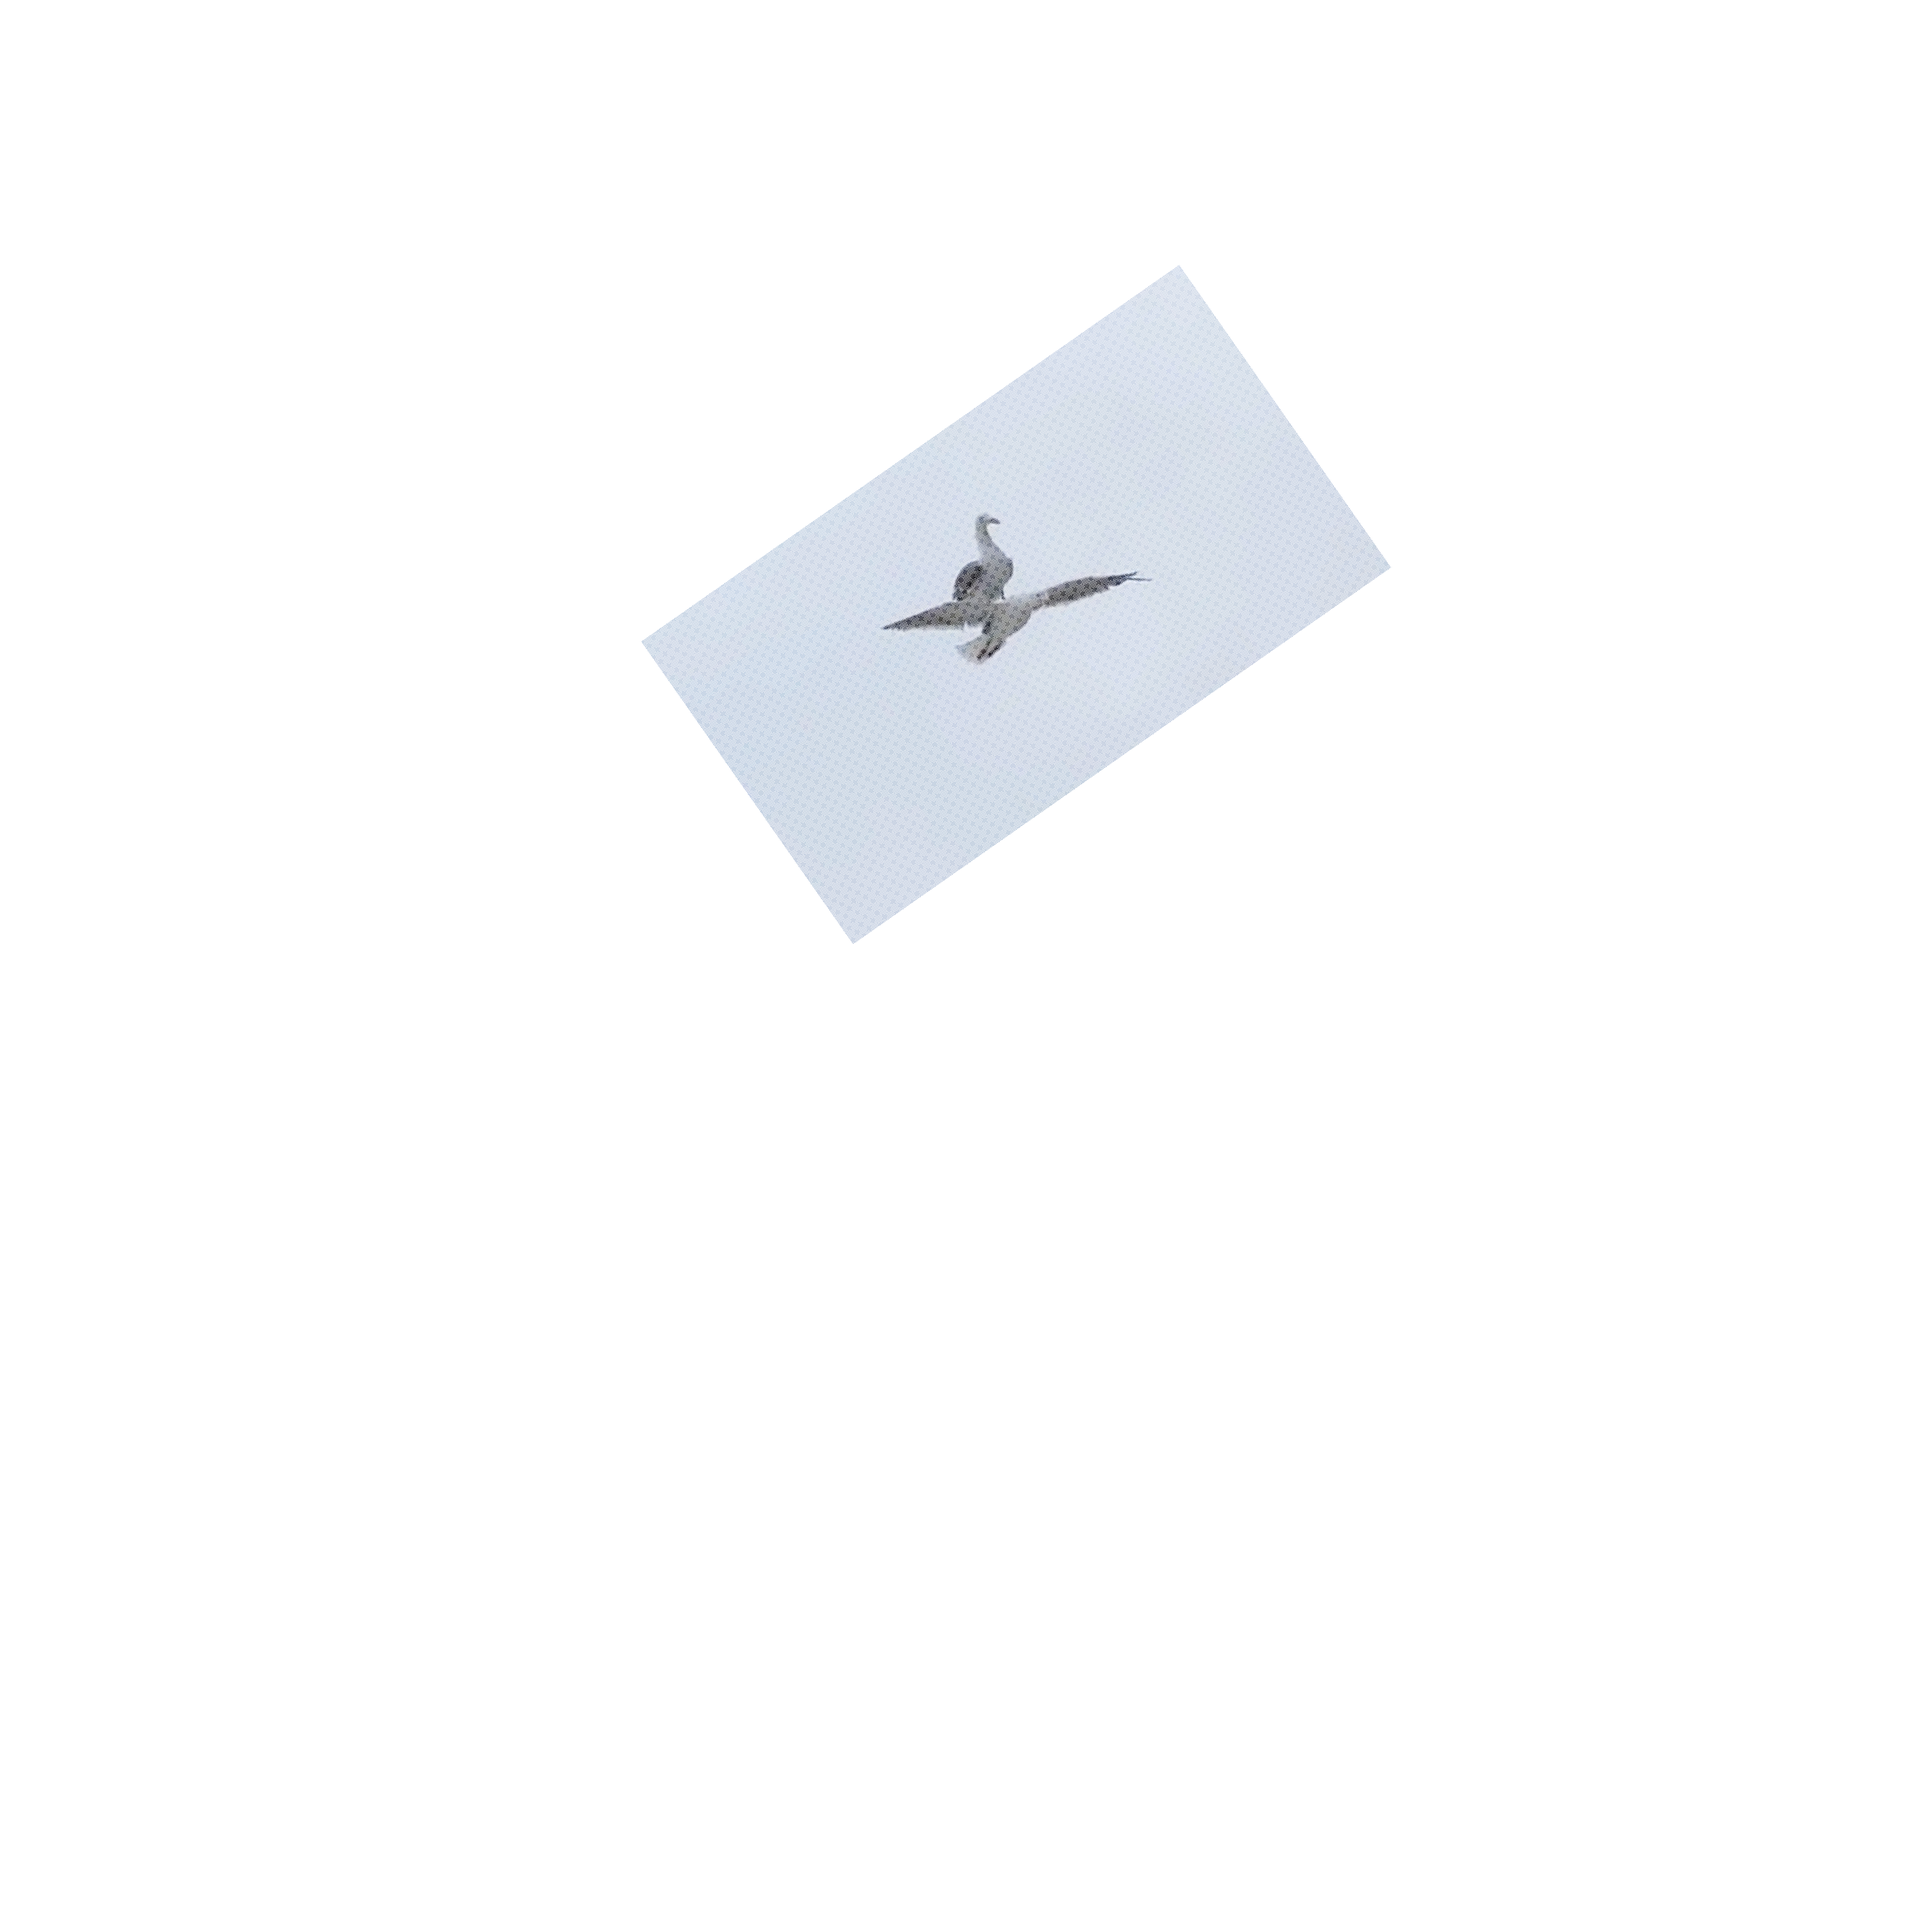
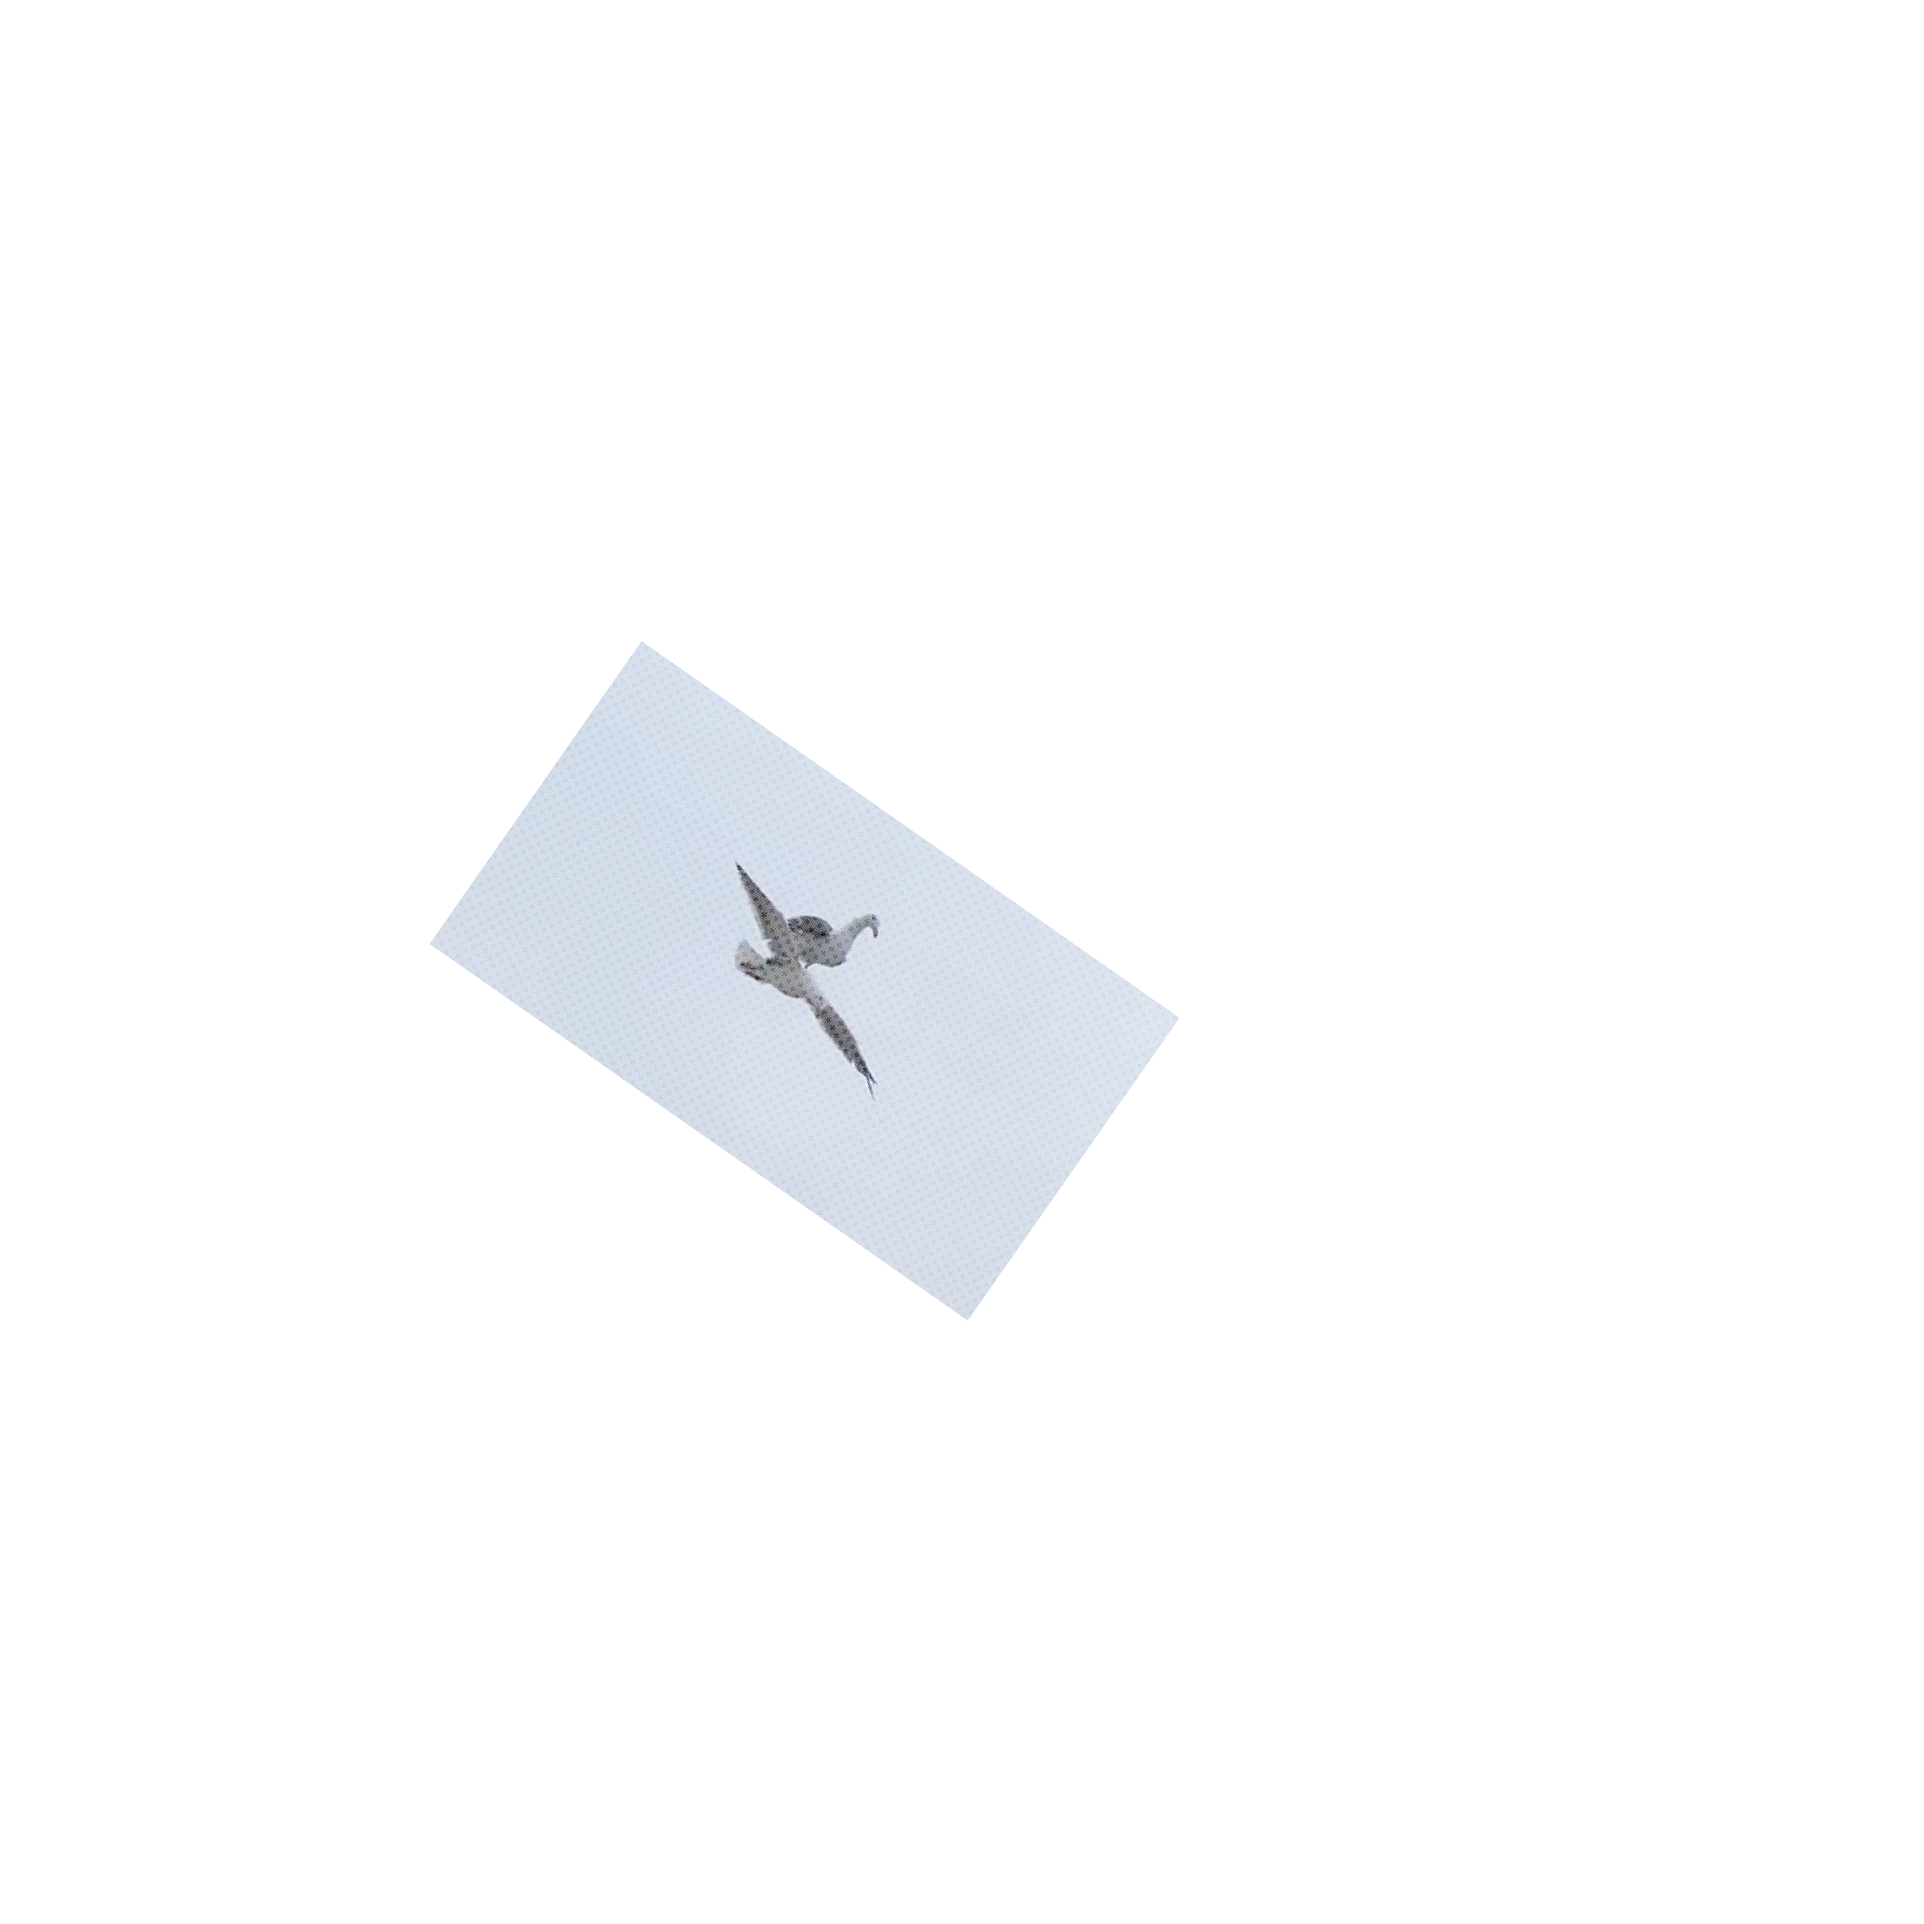
work

Changed region(s): [[0.217, 0.124, 0.713, 0.682]]

diff --git a/threeshear.py b/threeshear.py
@@ -10,6 +10,7 @@ vec_round = np.vectorize(round)
 name = sys.argv[1]
 img = Image.open(name)
 numpydata = np.asarray(img)
+numpydata = np.swapaxes(numpydata,0,1) # Convert row column to xy
 
 theta = 35 * math.pi / 180
 # Matrix transform x, y, 1, r, g, b
@@ -57,16 +58,16 @@ result1 = vec_round(shear1(theta).dot(raw))
 result2 = vec_round(shear2(theta).dot(result1))
 result3 = vec_round(shear3(theta).dot(result2))
 
-img0 = Image.fromarray(matrix_to_img(vec_round(move(1000, 1000).dot(raw))).astype('uint8'), 'RGB')
-img1 = Image.fromarray(matrix_to_img(vec_round(move(1000, 1000).dot(result1))).astype('uint8'), 'RGB')
-img2 = Image.fromarray(matrix_to_img(vec_round(move(1000, 1000).dot(result2))).astype('uint8'), 'RGB')
-imgfinal = Image.fromarray(matrix_to_img(vec_round(move(1000, 1000).dot(result3))).astype('uint8'), 'RGB')
+img0 = Image.fromarray(np.swapaxes(matrix_to_img(vec_round(move(1000, 1000).dot(raw))), 0, 1).astype('uint8'), 'RGB')
+img1 = Image.fromarray(np.swapaxes(matrix_to_img(vec_round(move(1000, 1000).dot(result1))), 0, 1).astype('uint8'), 'RGB')
+img2 = Image.fromarray(np.swapaxes(matrix_to_img(vec_round(move(1000, 1000).dot(result2))), 0, 1).astype('uint8'), 'RGB')
+imgfinal = Image.fromarray(np.swapaxes(matrix_to_img(vec_round(move(1000, 1000).dot(result3))), 0, 1).astype('uint8'), 'RGB')
 
 img0.save('original.png')
 img1.save('shear1.png') # Save image
 img2.save('shear2.png')
 imgfinal.save('shear3.png')
 
-singletrans = matrix_to_img(vec_round(move(1000, 1000).dot(rotation(theta)).dot(raw)))
+singletrans = np.swapaxes(matrix_to_img(vec_round(move(1000, 1000).dot(rotation(theta)).dot(raw))), 0, 1)
 Image.fromarray(singletrans.astype('uint8'), 'RGB').save('rotationmatrix.png')
 print(time.perf_counter()-sttime)

diff --git a/transforms.py b/transforms.py
@@ -24,7 +24,7 @@ rotation = lambda theta: partition(np.array([[ np.cos(theta),-np.sin(theta), 0],
                                              [ np.sin(theta), np.cos(theta), 0],
                                              [             0,             0, 1]]))
 
-shearexample = partition(np.array([[1, 2, 0],
+shearexample = partition(np.array([[1, 1, 0],
                                    [0, 1, 0],
                                    [0, 0, 1]]))
 
@@ -37,5 +37,23 @@ shear2 = lambda theta: partition(np.array([[            1, 0, 0],
 shear3 = lambda theta: partition(np.array([[1,   -np.tan(theta/2), 0],
                                            [0,                  1, 0],
                                            [0,                  0, 1]]))
+
+colorshift1 = np.array([
+    [1, 0, 0, 0, 0, 0],
+    [0, 1, 0, 0, 0, 0],
+    [0, 0, 1, 0, 0, 0],
+    [0, 0, 0, 1, 0, 0],
+    [0, 0, 0, 0, 0.25, 0],
+    [0, 0, 0, 0, 0, 0.25]
+])
+
+colorshift2 = np.array([
+    [1, 0, 0, 0, 0, 0],
+    [0, 1, 0, 0, 0, 0],
+    [0, 0, 1, 0, 0, 0],
+    [0, 0, 0, 1, 0, 0],
+    [-0.1, 0, 0, 0, 1, 0],
+    [-0.1, 0, 0, 0, 0, 1]
+])
 
 #rgb = 

diff --git a/lineargif.py b/lineargif.py
@@ -22,7 +22,7 @@ def img_to_matrix(npdata):
     return out.reshape(-1, out.shape[-1]).T
 
 def matrix_to_img(npdata):
-    arr = np.ones([3000, 3000, 3]) * 255 # Create a white canvas
+    arr = np.ones([2700, 2700, 3]) * 255 # Create a white canvas
     npdata = vec_round(npdata)
     arr[npdata[0], npdata[1]] = npdata[3:].T
     return arr
@@ -33,9 +33,9 @@ images = []
 for i in range(0, 360, 10):
     theta = i * math.pi / 180
     # Matrix transform x, y, 1, r, g, b
-    transformation = transfroms.rotation(theta)
+    transformation = transforms.rotation(theta)
 
-    result = matrix_to_img(transformation.dot(data))
+    result = matrix_to_img(transforms.move(1250, 1250).dot(transformation).dot(data))
 
     PIL_image = Image.fromarray(result.astype('uint8'), 'RGB')
     images.append(PIL_image)

diff --git a/linearfast.py b/linearfast.py
@@ -10,11 +10,13 @@ vec_round = np.vectorize(round)
 name = sys.argv[1]
 img = Image.open(name)
 numpydata = np.asarray(img)
+numpydata = np.swapaxes(numpydata,0,1) # convert row column to xy
 
 theta = 180 * math.pi / 180
 # Matrix transform x, y, 1, r, g, b
 #transformation = transforms.rotation(theta)
-transformation = transforms.shearexample
+#transformation = transforms.shearexample
+transformation = transforms.colorshift2
 
 def img_to_matrix(npdata):
     i = np.arange(npdata.shape[0])
@@ -52,6 +54,8 @@ def matrix_to_img_slow(npdata):
 data = img_to_matrix(numpydata)
 
 result = matrix_to_img(transformation.dot(data))
+result = np.swapaxes(result,0,1) # convert xy to row column
+
 
 PIL_image = Image.fromarray(result.astype('uint8'), 'RGB')
 PIL_image.save('result.png') # Save image
